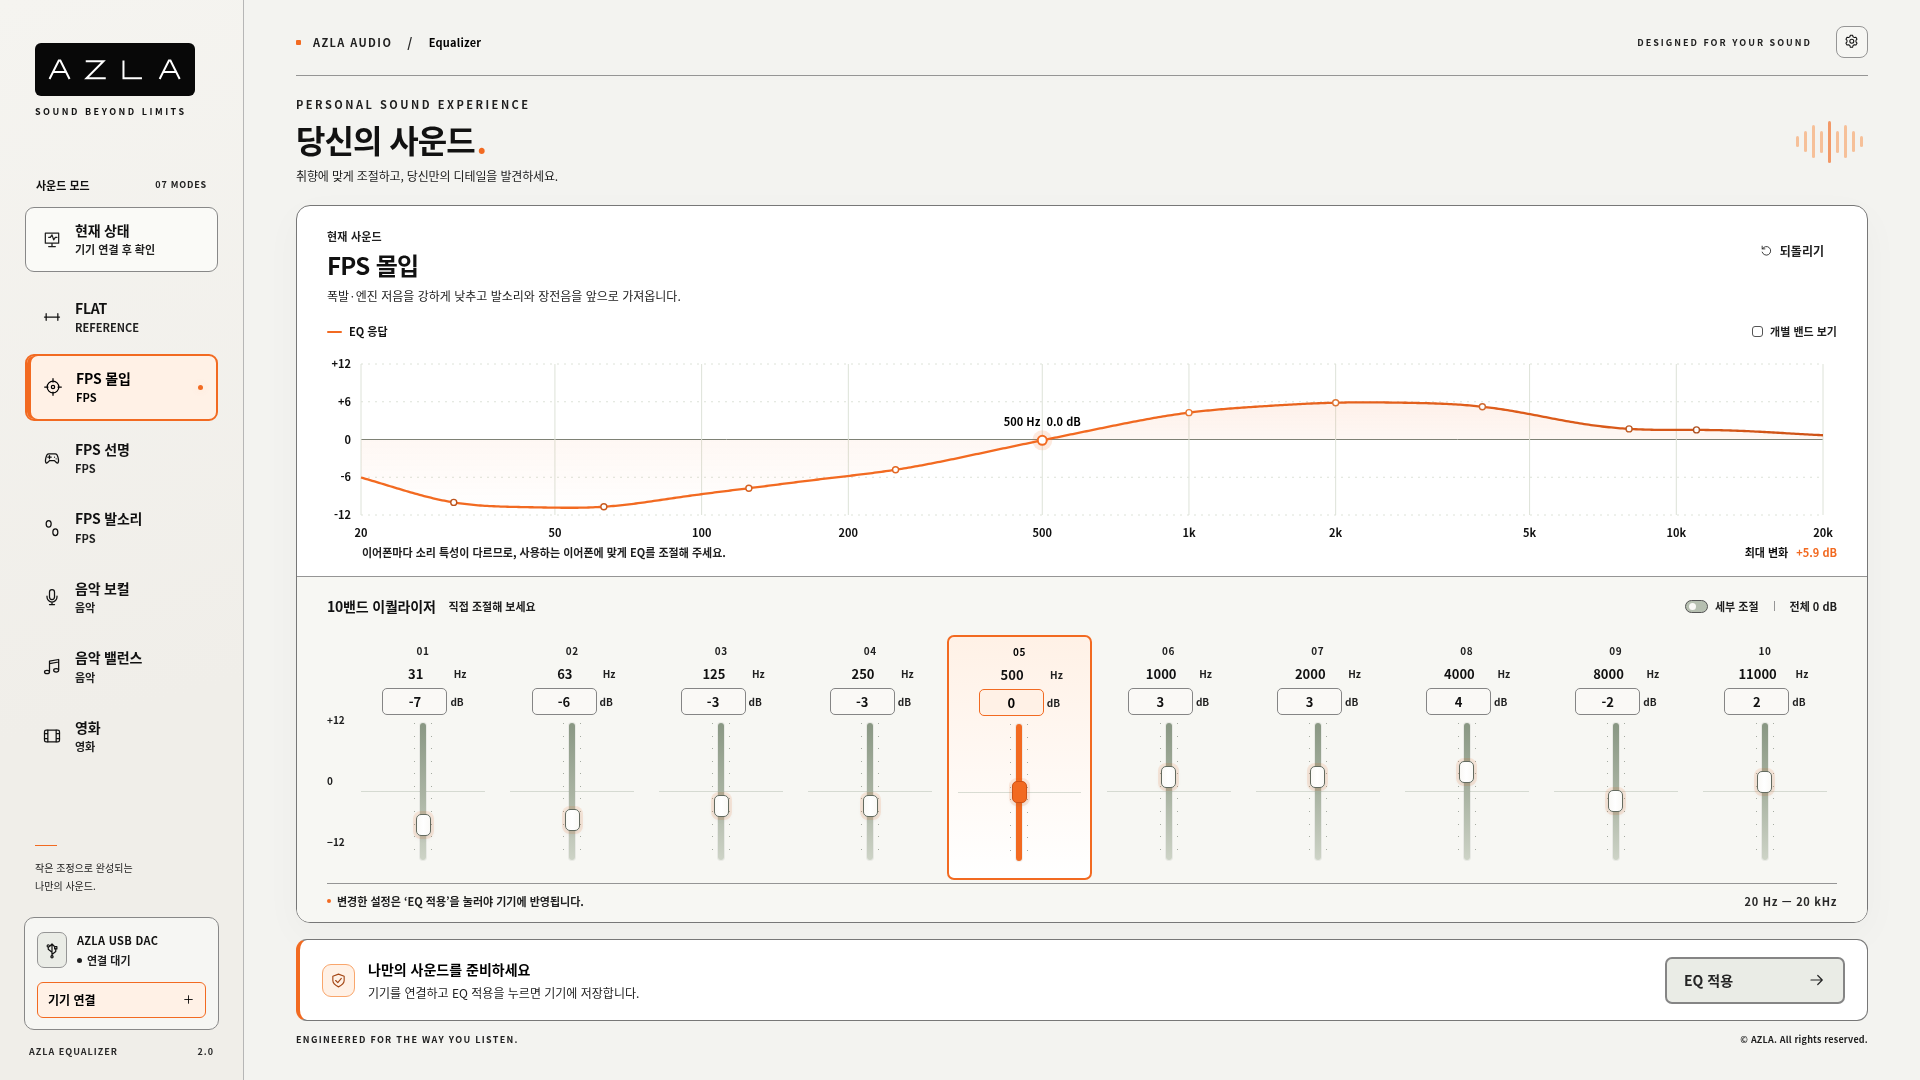
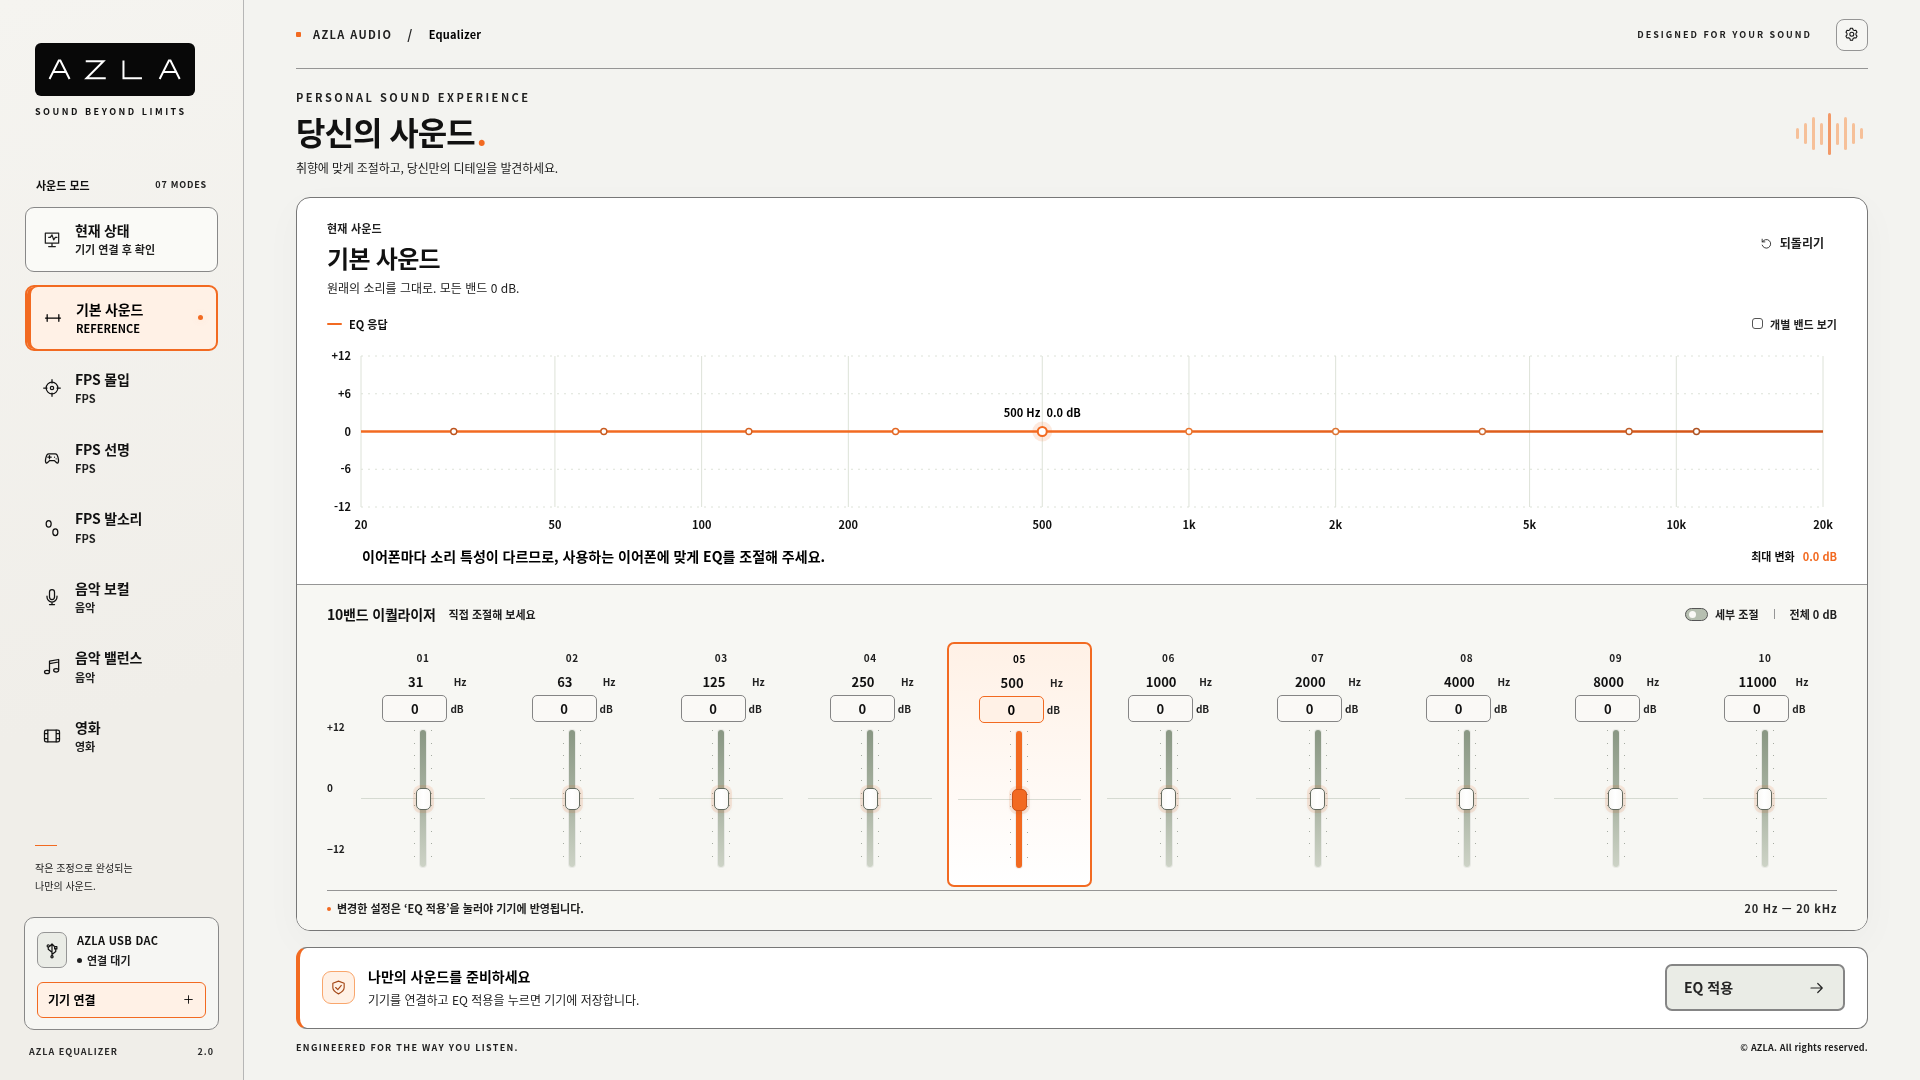
Rename flat mode to default sound and enlarge earphone guidance

diff --git a/index.html b/index.html
@@ -43,7 +43,7 @@
       <section class="page-heading"><div><div class="eyebrow">PERSONAL SOUND EXPERIENCE</div><h1>당신의 사운드<span class="heading-dot">.</span></h1><p>취향에 맞게 조절하고, 당신만의 디테일을 발견하세요.</p></div><div class="heading-decoration" aria-hidden="true"><span></span><span></span><span></span><span></span><span></span><span></span><span></span><span></span><span></span></div></section>
 
       <section class="equalizer-panel" aria-labelledby="profileName">
-        <div class="profile-header"><div class="profile-intro"><div class="profile-topline"><span class="section-kicker">현재 사운드</span></div><h2 id="profileName">FLAT</h2><p id="profileDescription">원래의 소리를 그대로. 모든 밴드 0 dB.</p></div><div class="profile-actions"><button id="resetBtn" class="quiet-button" type="button"><svg class="icon"><use href="#icon-reset"/></svg><span>되돌리기</span></button></div></div>
+        <div class="profile-header"><div class="profile-intro"><div class="profile-topline"><span class="section-kicker">현재 사운드</span></div><h2 id="profileName">기본 사운드</h2><p id="profileDescription">원래의 소리를 그대로. 모든 밴드 0 dB.</p></div><div class="profile-actions"><button id="resetBtn" class="quiet-button" type="button"><svg class="icon"><use href="#icon-reset"/></svg><span>되돌리기</span></button></div></div>
 
         <div class="chart-section"><div class="chart-toolbar"><div class="chart-legends"><span class="chart-legend"><i class="legend-line"></i>EQ 응답</span><span class="chart-legend measured-legend" id="measurementLegend" hidden><i class="legend-line measured"></i>실측 변화량</span></div><label class="subtle-checkbox"><input id="showBands" type="checkbox"><span class="checkbox-mark"></span>개별 밴드 보기</label></div><div class="chart-wrap"><canvas id="responseChart" width="1200" height="270" aria-label="주파수에 따른 EQ 예상 응답. 아래 10밴드 조절로 변경할 수 있습니다." role="img"></canvas></div><div class="chart-bottom"><span id="modelLabel">이어폰마다 소리 특성이 다르므로, 사용하는 이어폰에 맞게 EQ를 조절해 주세요.</span><span id="peakLabel" class="peak-label">최대 변화 <b>0.0 dB</b></span></div></div>
 

diff --git a/app.js b/app.js
@@ -355,7 +355,7 @@ $('advancedToggle').checked = state.advanced;
 $('advancedToggle').addEventListener('change', event => { state.advanced = event.target.checked; $('bandControls').classList.toggle('advanced-visible', state.advanced); saveLocal(); scheduleDraw(); });
 $('showBands').addEventListener('change', scheduleDraw);
 $('resetBtn').addEventListener('click', () => { state.eq = cloneEq(state.baseEq); state.selected = state.baseSelected; state.error = null; refresh(true); saveLocal(); });
-$('flatBtn').addEventListener('click', () => { const flat = PRESETS.find(profile => profile.id === 'flat').eq; state.eq = cloneEq(flat); state.baseEq = cloneEq(flat); state.selected = 'flat'; state.baseSelected = 'flat'; state.error = null; refresh(true); saveLocal(); toast('FLAT 기준값으로 초기화했습니다.'); });
+$('flatBtn').addEventListener('click', () => { const flat = PRESETS.find(profile => profile.id === 'flat').eq; state.eq = cloneEq(flat); state.baseEq = cloneEq(flat); state.selected = 'flat'; state.baseSelected = 'flat'; state.error = null; refresh(true); saveLocal(); toast('기본 사운드 기준값으로 초기화했습니다.'); });
 $('settingsBtn').addEventListener('click', () => { $('settingsDialog').showModal(); renderComparison(); });
 $('closeSettingsBtn').addEventListener('click', () => $('settingsDialog').close());
 $('exportLogBtn').addEventListener('click', () => download('AZLA-Diagnostics.json', { ...controller.diagnostics(), discoveredDevice, preview: state.eq, model: state.model.source, presetReference: PRESET_REFERENCE }));

diff --git a/tests/storage.test.js b/tests/storage.test.js
@@ -19,7 +19,7 @@ function memoryStorage(initial={}) {
   };
 }
 
-test('a fresh launch always starts from the shared FLAT and Q 0.75 baseline',()=>{
+test('a fresh launch always starts from the shared 기본 사운드 and Q 0.75 baseline',()=>{
   const storage=memoryStorage(),result=restore(storage);
   assert.equal(result.selected,'flat');assert.equal(result.advanced,false);
   assert.deepEqual(result.current,flat());
@@ -56,7 +56,7 @@ test('persist writes only the v5 UI preference and excludes EQ, names and device
   for(const forbidden of ['current','selected','presets','삭제 대상','secret','serial','device']) assert.ok(!storage.getItem('azla_equalizer_v5').includes(forbidden),forbidden);
 });
 
-test('blocked or malformed storage still returns FLAT without exposing old saves',()=>{
+test('blocked or malformed storage still returns 기본 사운드 without exposing old saves',()=>{
   const malformed=memoryStorage({azla_equalizer_v5:'{"advanced":'}),first=restore(malformed);
   assert.deepEqual(first.current,flat());assert.equal(first.selected,'flat');assert.equal(first.advanced,false);
   const denied=restore({getItem(){throw new Error('blocked');},removeItem(){throw new Error('blocked');}});

diff --git a/src/eq.js b/src/eq.js
@@ -30,7 +30,7 @@ const preset = (id, name, category, description, icon, gains, options) => ({
 
 /** Every preset is an editable starting point; none is a measured correction. */
 export const PRESETS = [
-  preset('flat', 'FLAT', 'REFERENCE', '원래의 소리를 그대로. 모든 밴드 0 dB.', 'flat', Array(BANDS).fill(0), {tag: 13}),
+  preset('flat', '기본 사운드', 'REFERENCE', '원래의 소리를 그대로. 모든 밴드 0 dB.', 'flat', Array(BANDS).fill(0), {tag: 13}),
   preset('fps-immersive', 'FPS 몰입', 'FPS', '폭발·엔진 저음을 강하게 낮추고 발소리와 장전음을 앞으로 가져옵니다.', 'crosshair',
     [-7,-6,-3,-3,0,3,3,4,-2,2], {tag: 11}),
   preset('fps-clarity', 'FPS 선명', 'FPS', '저음의 부담을 줄이고 발소리와 효과음의 구분을 돕습니다.', 'gamepad',

diff --git a/style.css b/style.css
@@ -157,3 +157,9 @@ body{font-weight:500}
  .settings-dialog{padding:20px}.settings-status{font-size:11px}
  .bottom-caption{font-size:7px;letter-spacing:.2px}
 }
+
+/* Keep earphone guidance prominent, with its own row on small screens. */
+.chart-bottom{flex-wrap:wrap;align-items:center;gap:8px 16px;padding-top:8px}
+.chart-bottom #modelLabel{flex:1 1 360px;min-width:0;max-width:none;font-size:14px;font-weight:700;line-height:1.65;color:#000000}
+.chart-bottom .peak-label{margin-left:auto}
+@media(max-width:900px){.chart-bottom #modelLabel{flex-basis:100%;font-size:13px}.chart-bottom .peak-label{font-size:11px}}

diff --git a/src/storage.js b/src/storage.js
@@ -26,7 +26,7 @@ export function restore(storage) {
       const previous = JSON.parse(storage.getItem('azla_equalizer_v4') || 'null');
       advanced = previous?.advanced === true;
     }
-  } catch { /* use a fresh FLAT screen */ }
+  } catch { /* use a fresh 기본 사운드 screen */ }
 
   for (const key of OBSOLETE_KEYS) {
     try { storage.removeItem?.(key); } catch { /* never restore removed save formats */ }

diff --git a/tests/browser_smoke.py b/tests/browser_smoke.py
@@ -48,11 +48,11 @@ with sync_playwright() as p:
     page.wait_for_selector('.band-column')
     assert page.locator('.band-column').count() == 10
     assert page.locator('[data-preset]').count() == 7
-    assert page.locator('[data-preset] .preset-name').all_text_contents() == ['FLAT','FPS 몰입','FPS 선명','FPS 발소리','음악 보컬','음악 밸런스','영화']
+    assert page.locator('[data-preset] .preset-name').all_text_contents() == ['기본 사운드','FPS 몰입','FPS 선명','FPS 발소리','음악 보컬','음악 밸런스','영화']
     assert page.locator('.band-filter select').first.locator('option[value="3"]').inner_text() == 'HIGH SHELF'
     assert page.locator('[data-current-state]').count() == 1
     assert page.locator('[data-current-state]').inner_text().startswith('현재 상태')
-    assert page.locator('#profileName').inner_text() == 'FLAT'
+    assert page.locator('#profileName').inner_text() == '기본 사운드'
     assert page.locator('[data-preset="flat"]').get_attribute('aria-pressed') == 'true'
     assert page.locator('#profileBadge').count() == 0
     for selector in ['#savePresetBtn','#saveDialog','#importBtn','#exportBtn','#importInput']:
@@ -79,7 +79,7 @@ with sync_playwright() as p:
     q.fill('1.13'); q.press('Tab')
     assert q.input_value() == '1.13'
     page.reload(); page.wait_for_selector('.band-column')
-    assert page.locator('#profileName').inner_text() == 'FLAT'
+    assert page.locator('#profileName').inner_text() == '기본 사운드'
     assert page.locator('#advancedToggle').is_checked()
     assert all(v == '0' for v in page.locator('.band-gain input').evaluate_all('(els)=>els.map(x=>x.value)'))
     assert all(v == '0.75' for v in page.locator('.band-q input').evaluate_all('(els)=>els.map(x=>x.value)'))
@@ -94,7 +94,7 @@ with sync_playwright() as p:
     page.locator('#closeSettingsBtn').click()
     page.locator('#flatBtn').click()
     assert not errors, errors
-    print('PASS: seven modes, requested bands, manual reset, removed user saves, FLAT restart, Q input, REW comparison')
+    print('PASS: seven modes, requested bands, manual reset, removed user saves, 기본 사운드 restart, Q input, REW comparison')
     context.close()
 
     context = browser.new_context(viewport={'width':1440,'height':1000})
@@ -106,7 +106,7 @@ with sync_playwright() as p:
     page.locator('#connectBtn').click()
     page.wait_for_function("!document.querySelector('#applyBtn').disabled")
     assert page.locator('[data-current-state]').inner_text().startswith('현재 상태')
-    assert 'FLAT' in page.locator('[data-current-state]').inner_text()
+    assert '기본 사운드' in page.locator('[data-current-state]').inner_text()
     assert page.evaluate('window.__writes.map(x=>x.bytes)') == [[128,9,0]]
     page.locator('[data-preset="fps-immersive"]').click()
     page.locator('#applyBtn').click()

diff --git a/docs/검증결과.md b/docs/검증결과.md
@@ -19,12 +19,12 @@
 
 **소프트웨어 검증 43개 통과: 기본 검증 32개 + 원본 SDK 통합 11개.**
 
-- EQ/DSP 11개: FLAT, 단일 PEAK, 합성 응답, pass·shelf, 유효성, 사운드 설정 독립성, REW 파싱·보간·비교.
+- EQ/DSP 11개: 기본 사운드, 단일 PEAK, 합성 응답, pass·shelf, 유효성, 사운드 설정 독립성, REW 파싱·보간·비교.
 - 전송 모의 검증 14개: 12개 저장 명령 순서·대기, 잘못된 입력·장치·패킷 차단, 중복 실행, USB 오류·분리·타임아웃, 42회 저장·로그 순환, 계수 해석, 정보 검색, 읽기 전용 EQ Tag 요청·응답과 타임아웃.
-- 저장 상태 7개: 매 실행 FLAT·Q 0.75, v5에서 EQ·이름 미저장, v1~v4 사용자 저장 키 실제 삭제, 저장소 오류 시 안전한 FLAT 복구, 성공한 Flash 전송값의 별도 기록과 손상 기록 차단.
+- 저장 상태 7개: 매 실행 기본 사운드·Q 0.75, v5에서 EQ·이름 미저장, v1~v4 사용자 저장 키 실제 삭제, 저장소 오류 시 안전한 기본 사운드 복구, 성공한 Flash 전송값의 별도 기록과 손상 기록 차단.
 - **수정하지 않은 제조사 SDK + 모의 HID 11개**: 원본 해시·API, 10개 0dB 밴드, 정확한 RAM·3바이트 Flash, 96kHz PEAK 중심 응답, 7개 모드, 정수 계수 해석, 전송·대기, 35회 저장·로그 순환, 제조사 검색과 잘못된 VID/인터페이스 차단.
 
-Chromium에서 7개 모드와 새 중심 대역, 수동 편집·되돌리기, Q 입력, 기존 사용자 저장 삭제, 재실행 FLAT, REW 비교를 확인했습니다. 원본 SDK + 모의 HID로 실제 Tag 읽기 요청, 현재 상태의 마지막 Flash 전송값 대조, 10개 EQ, RAM, Flash 명령과 편집 중 자동 쓰기 없음도 통과했습니다. 대비를 높인 화이트·실버의 1920×1080·1366×768 기본/세부 화면과 390px 모바일 화면은 `docs/screenshots/azla-light-*.png`에 기록했습니다.
+Chromium에서 7개 모드와 새 중심 대역, 수동 편집·되돌리기, Q 입력, 기존 사용자 저장 삭제, 재실행 기본 사운드, REW 비교를 확인했습니다. 원본 SDK + 모의 HID로 실제 Tag 읽기 요청, 현재 상태의 마지막 Flash 전송값 대조, 10개 EQ, RAM, Flash 명령과 편집 중 자동 쓰기 없음도 통과했습니다. 대비를 높인 화이트·실버의 1920×1080·1366×768 기본/세부 화면과 390px 모바일 화면은 `docs/screenshots/azla-light-*.png`에 기록했습니다.
 
 ## 계수와 필터
 

diff --git a/README.md b/README.md
@@ -21,16 +21,16 @@ Windows 단독 실행본은 [Releases](https://github.com/tjdrua1123-art/AZLA/re
 
 ## 기능
 
-- 매 실행 FLAT 초기 화면, 10밴드 주파수·게인, 세부 조절의 공통 Q 0.75·필터 선택
-- FLAT, FPS 몰입, FPS 선명, FPS 발소리, 음악 보컬, 음악 밸런스, 영화
+- 매 실행 기본 사운드 초기 화면, 10밴드 주파수·게인, 세부 조절의 공통 Q 0.75·필터 선택
+- 기본 사운드, FPS 몰입, FPS 선명, FPS 발소리, 음악 보컬, 음악 밸런스, 영화
 - 공통 중심 대역: 31·63·125·250·500 Hz, 1·2·4·8·11 kHz
 - SDK 정수 계수 기반 예상 응답, REW EQ OFF·ON 비교
 - 단일 **EQ 적용**으로 10밴드 → RAM 반영 → Flash 저장 명령 순차 전송
-- FLAT 위 **현재 상태**에서 기기의 EQ Tag와 마지막 Flash 전송값 확인
+- 기본 사운드 위 **현재 상태**에서 기기의 EQ Tag와 마지막 Flash 전송값 확인
 
 현재 연결 설정은 기존 프로그램과 같은 제조사 VID 검색 방식입니다. PID를 직접 입력할 필요 없이 본인의 AZLA DAC를 선택합니다. 출력 Report 75를 확인하며, 슬라이더·모드 변경만으로 기기에 쓰지 않습니다.
 
-사용자 사운드 저장·가져오기·내보내기는 제거했습니다. 수동 조절값은 현재 실행 중에만 유지되고 다시 실행하면 FLAT으로 시작합니다. 새 버전을 처음 실행할 때 v1~v4의 기존 사용자 저장 키를 삭제하며, 설정의 **진단 기록 저장**은 장치 문제 확인을 위해 유지합니다.
+사용자 사운드 저장·가져오기·내보내기는 제거했습니다. 수동 조절값은 현재 실행 중에만 유지되고 다시 실행하면 기본 사운드으로 시작합니다. 새 버전을 처음 실행할 때 v1~v4의 기존 사용자 저장 키를 삭제하며, 설정의 **진단 기록 저장**은 장치 문제 확인을 위해 유지합니다.
 
 **현재 상태**는 연결된 기기에서 실제 EQ Tag ID를 읽습니다. 제조사 SDK에는 Flash의 10개 밴드를 다시 읽는 API가 없으므로, 밴드 값은 이 프로그램이 해당 장치에 마지막으로 Flash 저장 명령과 함께 보낸 기록을 Tag와 대조해 표시합니다. 기록이 없는 기본 모드는 Tag에 해당하는 기준값을 표시하고, 알 수 없는 Tag는 상세 값을 표시하지 않습니다.
 

diff --git a/docs/출시검증.md b/docs/출시검증.md
@@ -46,7 +46,7 @@
 
 - [ ] Python 실행 및 Electron 앱의 장치 선택·권한·재실행
 - [ ] 1366×768·1920×1080, 배율 100/125/150%
-- [ ] 업데이트 첫 실행 시 이전 사용자 저장 키 삭제 및 FLAT 시작
+- [ ] 업데이트 첫 실행 시 이전 사용자 저장 키 삭제 및 기본 사운드 시작
 - [ ] 재실행 시 수동 조절값 미복원, 세부 조절 표시 상태만 유지
 - [ ] 최종 패키지의 원본 SDK·장치 설정 포함
 - [ ] 설치/제거·버전·SHA-256·코드 서명·SmartScreen
